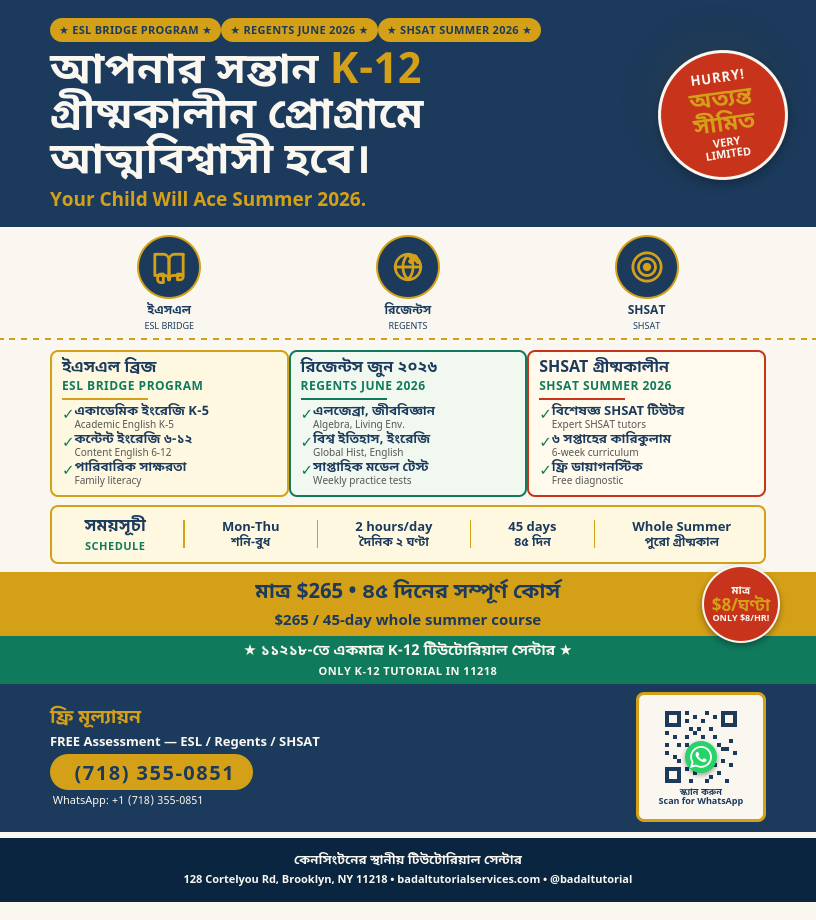
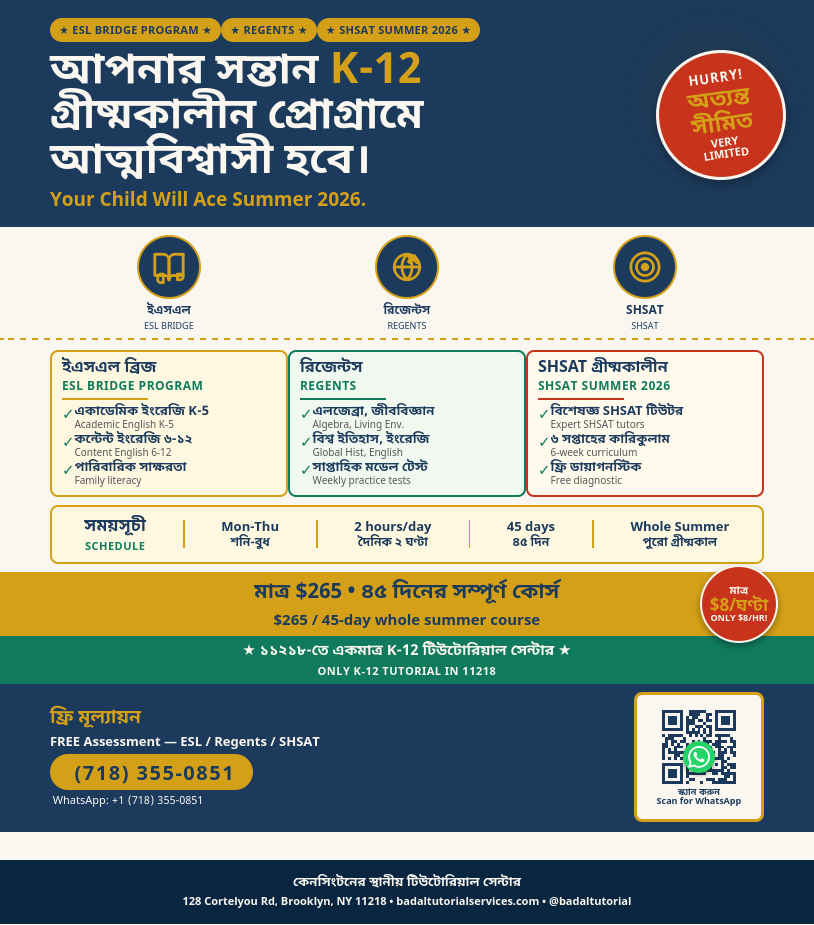
Drop Regents year, real WhatsApp QR, tighter aspect
- Regents: drop "JUNE 2026" from header + column (says REGENTS / রিজেন্টস only)
- QR: replace SVG placeholder with real wa.me/17183550851 QR (inline base64 PNG)
- Aspect: flyer 814x924px (was 8.5x9.4in / 816x902)
- Render: 814x925, 1px bottom void (effectively flush)

diff --git a/flyers/bn/unified-bn.html b/flyers/bn/unified-bn.html
@@ -13,7 +13,7 @@
   * { margin: 0; padding: 0; box-sizing: border-box; }
   body { font-family: 'BodySans', 'Noto Sans Bengali', 'BnFont', 'DejaVu Sans', sans-serif; background: #FAF7F0; }
 
-  .flyer { width: 8.5in; min-height: 9.4in; background: #FAF7F0; position: relative; overflow: hidden; display: flex; flex-direction: column; }
+  .flyer { width: 814px; min-height: 924px; background: #FAF7F0; position: relative; overflow: hidden; display: flex; flex-direction: column; }
   .spacer { flex: 1; background: #FAF7F0; }
 
   /* HERO */
@@ -114,7 +114,7 @@
     </div>
     <div class="badges-row">
       <span class="badge">★ ESL BRIDGE PROGRAM ★</span>
-      <span class="badge">★ REGENTS JUNE 2026 ★</span>
+      <span class="badge">★ REGENTS ★</span>
       <span class="badge">★ SHSAT SUMMER 2026 ★</span>
     </div>
     <div class="headline-bn">আপনার সন্তান <span class="accent">K-12</span><br>গ্রীষ্মকালীন প্রোগ্রামে<br>আত্মবিশ্বাসী হবে।</div>
@@ -198,8 +198,8 @@
 
       <!-- REGENTS -->
       <div class="program-col regents">
-        <div class="program-title">রিজেন্টস জুন ২০২৬</div>
-        <div class="program-title-en">REGENTS JUNE 2026</div>
+        <div class="program-title">রিজেন্টস</div>
+        <div class="program-title-en">REGENTS</div>
         <div class="program-divider" style="background:#0F7B5C;"></div>
         <div class="program-row">
           <span class="check">✓</span>
@@ -307,58 +307,7 @@
       <div class="phone-block">📞 (718) 355-0851</div>
       <div class="wa-line">📱 WhatsApp: +1 (718) 355-0851</div>
     </div>
-    <div class="qr-box">
-      <svg viewBox="0 0 100 100" fill="#1B3A5C">
-        <rect x="5" y="5" width="20" height="20"/>
-        <rect x="10" y="10" width="10" height="10" fill="#FAF7F0"/>
-        <rect x="75" y="5" width="20" height="20"/>
-        <rect x="80" y="10" width="10" height="10" fill="#FAF7F0"/>
-        <rect x="5" y="75" width="20" height="20"/>
-        <rect x="10" y="80" width="10" height="10" fill="#FAF7F0"/>
-        <rect x="30" y="5" width="5" height="5"/>
-        <rect x="40" y="10" width="5" height="5"/>
-        <rect x="55" y="5" width="5" height="5"/>
-        <rect x="65" y="10" width="5" height="5"/>
-        <rect x="30" y="15" width="5" height="5"/>
-        <rect x="50" y="15" width="5" height="5"/>
-        <rect x="35" y="25" width="5" height="5"/>
-        <rect x="45" y="25" width="5" height="5"/>
-        <rect x="60" y="25" width="5" height="5"/>
-        <rect x="30" y="35" width="5" height="5"/>
-        <rect x="40" y="30" width="5" height="5"/>
-        <rect x="50" y="35" width="5" height="5"/>
-        <rect x="65" y="35" width="5" height="5"/>
-        <rect x="5" y="30" width="5" height="5"/>
-        <rect x="15" y="35" width="5" height="5"/>
-        <rect x="5" y="45" width="5" height="5"/>
-        <rect x="20" y="45" width="5" height="5"/>
-        <rect x="5" y="55" width="5" height="5"/>
-        <rect x="15" y="60" width="5" height="5"/>
-        <rect x="30" y="45" width="5" height="5"/>
-        <rect x="40" y="50" width="5" height="5"/>
-        <rect x="50" y="45" width="5" height="5"/>
-        <rect x="60" y="55" width="5" height="5"/>
-        <rect x="70" y="45" width="5" height="5"/>
-        <rect x="80" y="50" width="5" height="5"/>
-        <rect x="90" y="55" width="5" height="5"/>
-        <rect x="35" y="60" width="5" height="5"/>
-        <rect x="45" y="65" width="5" height="5"/>
-        <rect x="55" y="60" width="5" height="5"/>
-        <rect x="65" y="70" width="5" height="5"/>
-        <rect x="75" y="65" width="5" height="5"/>
-        <rect x="85" y="70" width="5" height="5"/>
-        <rect x="30" y="75" width="5" height="5"/>
-        <rect x="40" y="80" width="5" height="5"/>
-        <rect x="50" y="75" width="5" height="5"/>
-        <rect x="60" y="85" width="5" height="5"/>
-        <rect x="70" y="80" width="5" height="5"/>
-        <rect x="80" y="90" width="5" height="5"/>
-        <rect x="35" y="90" width="5" height="5"/>
-        <rect x="55" y="90" width="5" height="5"/>
-        <rect x="85" y="40" width="5" height="5"/>
-        <rect x="20" y="65" width="5" height="5"/>
-        <rect x="75" y="50" width="5" height="5"/>
-      </svg>
[1 lines of base64/hex data omitted]
       <div class="wa-logo">
         <svg viewBox="0 0 24 24"><path d="M17.472 14.382c-.297-.149-1.758-.867-2.03-.967-.273-.099-.471-.148-.67.15-.197.297-.767.966-.94 1.164-.173.199-.347.223-.644.075-.297-.15-1.255-.463-2.39-1.475-.883-.788-1.48-1.761-1.653-2.059-.173-.297-.018-.458.13-.606.134-.133.298-.347.446-.52.149-.174.198-.298.298-.497.099-.198.05-.371-.025-.52-.075-.149-.669-1.612-.916-2.207-.242-.579-.487-.5-.669-.51-.173-.008-.371-.01-.57-.01-.198 0-.52.074-.792.372-.272.297-1.04 1.016-1.04 2.479 0 1.462 1.065 2.875 1.213 3.074.149.198 2.096 3.2 5.077 4.487.709.306 1.262.489 1.694.625.712.227 1.36.195 1.871.118.571-.085 1.758-.719 2.006-1.413.248-.694.248-1.289.173-1.413-.074-.124-.272-.198-.57-.347m-5.421 7.403h-.004a9.87 9.87 0 01-5.031-1.378l-.361-.214-3.741.982.998-3.648-.235-.374a9.86 9.86 0 01-1.51-5.26c.001-5.45 4.436-9.884 9.888-9.884 2.64 0 5.122 1.03 6.988 2.898a9.825 9.825 0 012.893 6.994c-.003 5.45-4.437 9.884-9.885 9.884m8.413-18.297A11.815 11.815 0 0012.05 0C5.495 0 .16 5.335.157 11.892c0 2.096.547 4.142 1.588 5.945L.057 24l6.305-1.654a11.882 11.882 0 005.683 1.448h.005c6.554 0 11.89-5.335 11.893-11.893a11.821 11.821 0 00-3.48-8.413z"/></svg>
       </div>
